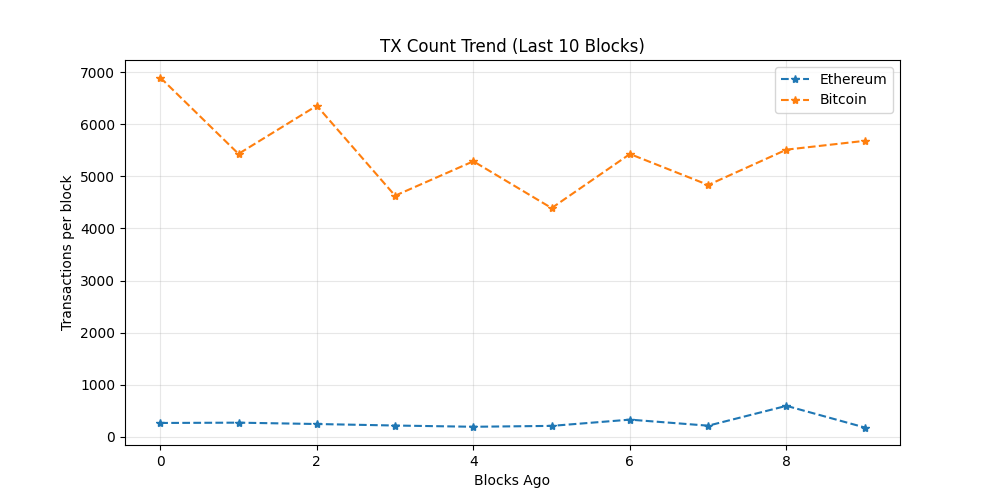
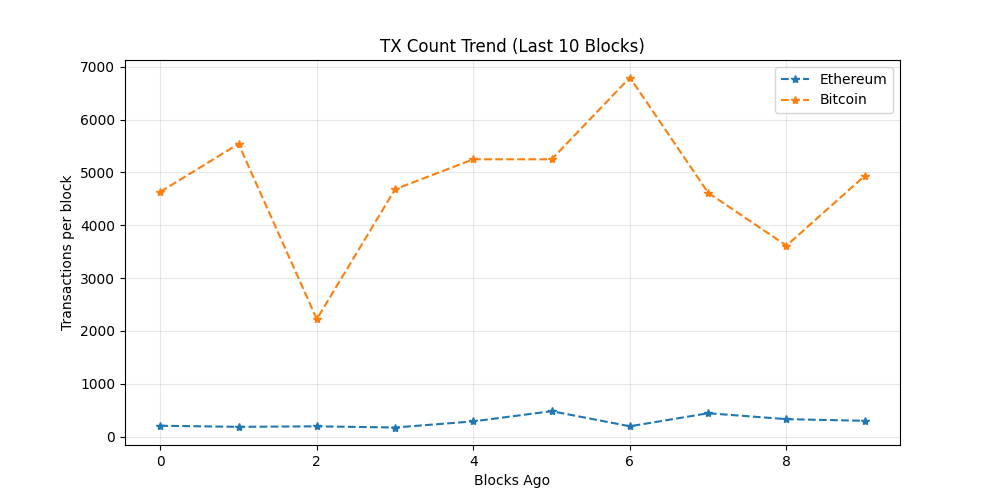
chore: update on-chain dashboard

diff --git a/README.md b/README.md
@@ -19,7 +19,7 @@ The README itself acts as the dashboard and is regenerated automatically on a 6 
 demonstrating a production-style, infrastructure-focused observability workflow rather
 than a traditional UI-driven approach.
 
-_Last updated: 2026-06-18 10:46 UTC_
+_Last updated: 2026-06-18 15:52 UTC_
 
 ## API Usage (GetBlock.io)
 - Calls used: **24**
@@ -27,8 +27,8 @@ _Last updated: 2026-06-18 10:46 UTC_
 ## Network Metrics
 | Chain | Block Height | TX Count | TPS (10 blk avg) | Block Util | Avg Fee |
 |------|-------------|----------|------------------|------------|---------|
-| Ethereum | 25343939 | 176 | 14.67 | 44.87% | 0.1 Gwei |
-| Bitcoin | 954228 | 5684 | 120.94 | 99.8% | N/A |
+| Ethereum | 25345460 | 299 | 24.92 | 44.71% | 1.6 Gwei |
+| Bitcoin | 954267 | 4936 | 0.0 | 99.8% | N/A |
 
 ## Visuals
 ### Transactions Trend
@@ -43,7 +43,11 @@ _Last updated: 2026-06-18 10:46 UTC_
 ## Whale Alerts (latest block)
 - Transaction hashes are truncated for readability.
 - Full hashes are available in `dashboards/metrics.json`
-No whale-sized transfers detected in latest blocks.
+- Bitcoin | 228.62 BTC | `172803777ecb…`
+- Bitcoin | 210.83 BTC | `343d546c4570…`
+- Bitcoin | 211.44 BTC | `66e6a4a893c9…`
+- Bitcoin | 142.71 BTC | `002ff4ff3254…`
+- Bitcoin | 102.75 BTC | `8b06b32f4064…`
 
 ## Run locally
 
